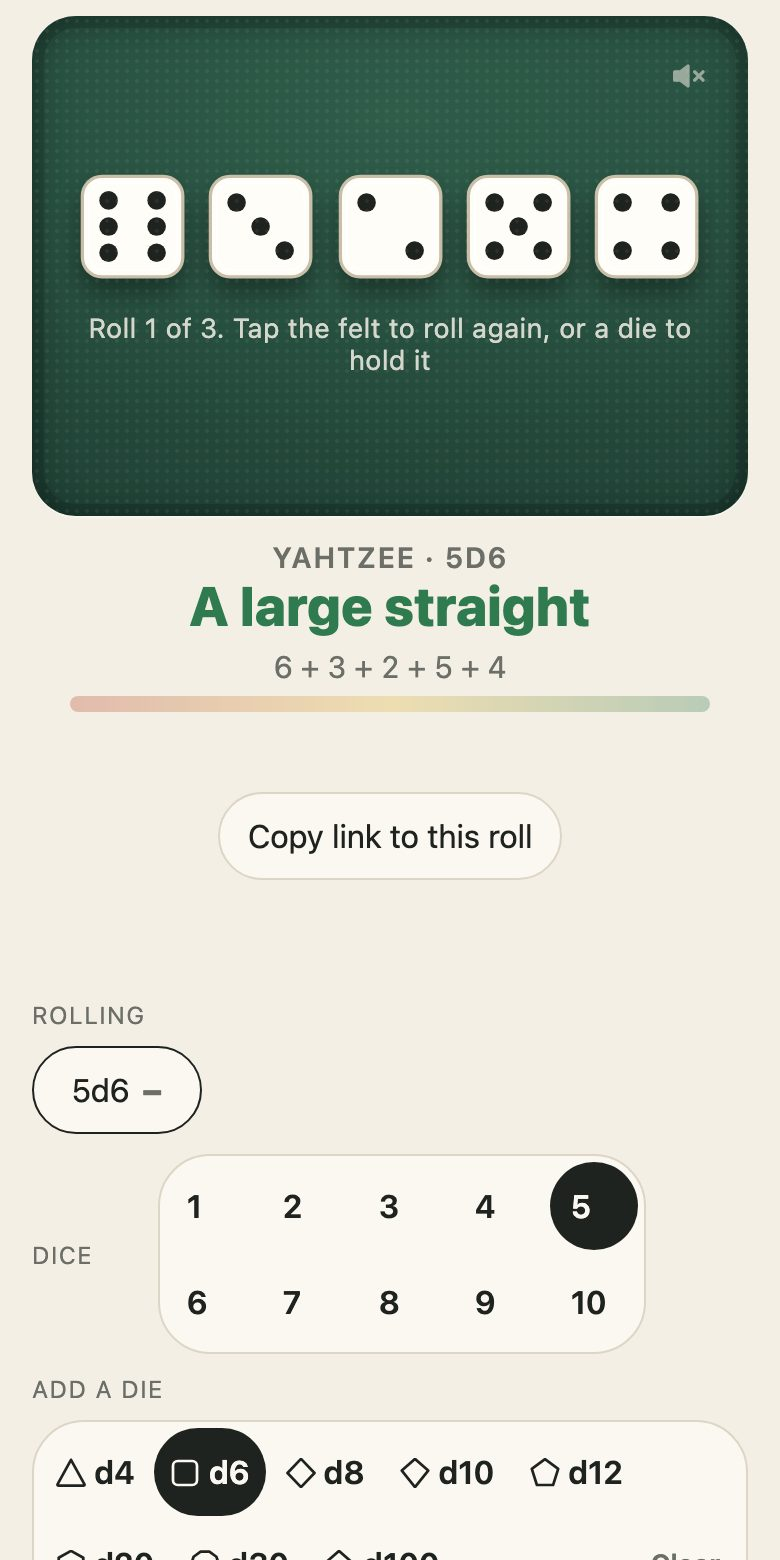
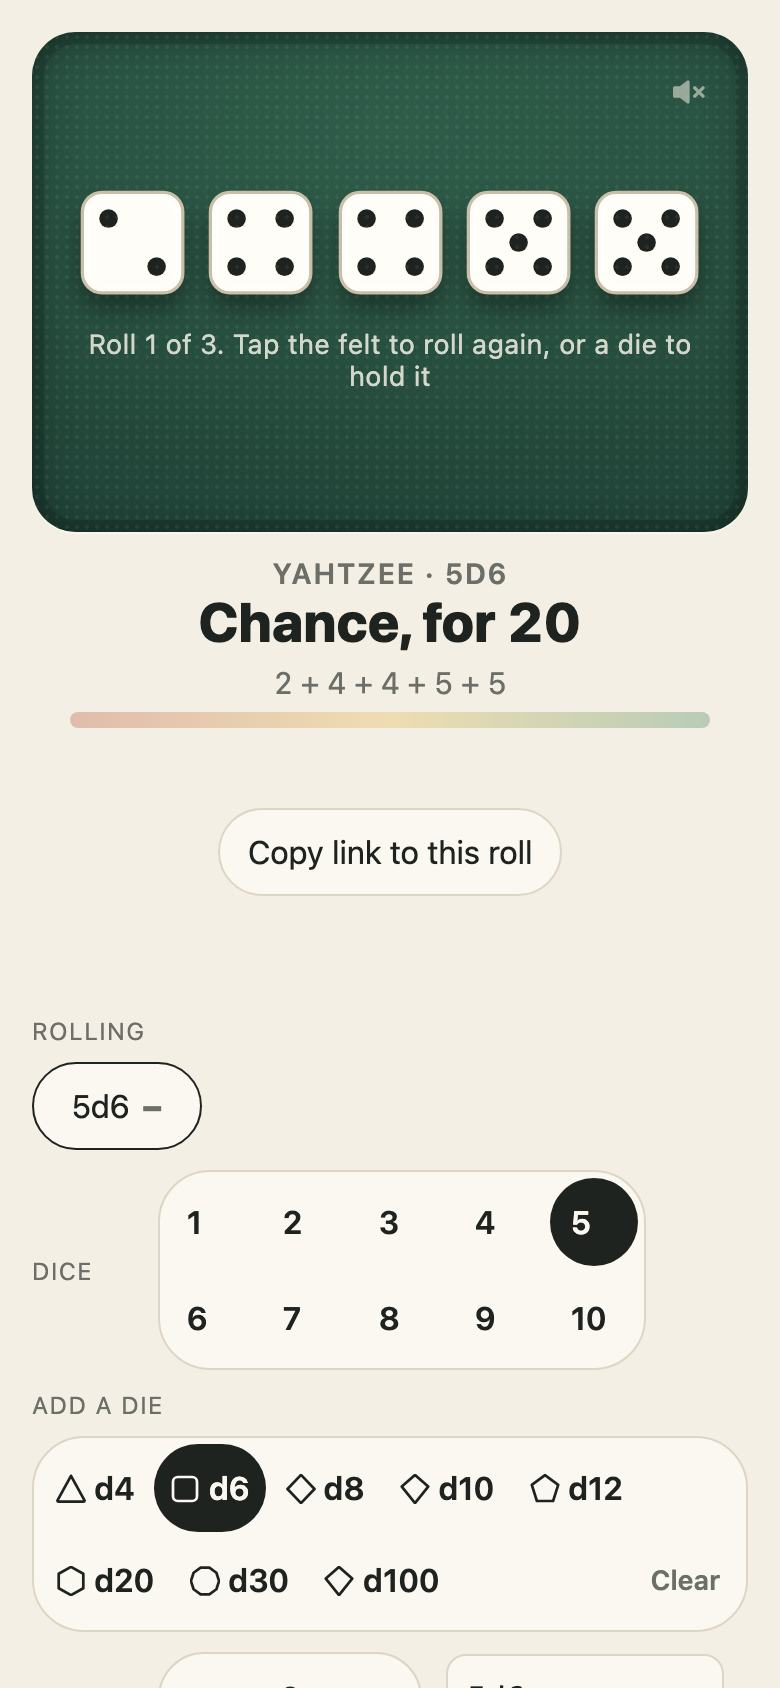
README pictures re-taken from the current demo, with a pictures script that takes them: pnpm pictures

diff --git a/eslint.config.js b/eslint.config.js
@@ -8,4 +8,5 @@ export default tseslint.config(
   { files: ["tray/**/*.mjs", "playwright.config.mjs"], languageOptions: { globals: { process: "readonly", Buffer: "readonly", Image: "readonly", OffscreenCanvas: "readonly", getComputedStyle: "readonly", customElements: "readonly", console: "readonly", URL: "readonly", document: "readonly", window: "readonly", localStorage: "readonly" } } },
   { files: ["website/**/*.mjs"], languageOptions: { globals: { URL: "readonly" } } },
   { files: ["scripts/**/*.mjs"], languageOptions: { globals: { console: "readonly", URL: "readonly", document: "readonly", location: "readonly", localStorage: "readonly", navigator: "readonly", URLSearchParams: "readonly" } } },
+  { files: ["scripts/readme-pictures.mjs"], languageOptions: { globals: { console: "readonly", process: "readonly", URL: "readonly", document: "readonly", window: "readonly", getComputedStyle: "readonly" } } },
 );

diff --git a/README.md b/README.md
@@ -14,8 +14,8 @@ Tap dice to build a roll, up to ten in any mix from a d4 to a d100, or type any 
 <p align="center"><a href="https://johnmorrisdotca.github.io/korokoro/"><strong>Roll some dice →</strong></a> · <a href="https://johnmorrisdotca.github.io/korokoro/docs/"><strong>Read the documentation →</strong></a></p>
 
 <p align="center">
-  <img src="docs/desktop.jpg" alt="Eight d6 on the felt, their total with a luck meter, and the stats panel with face counts and totals against the odds" width="720">
-  <img src="docs/phone.jpg" alt="Four d6 with the lowest dropped, on a phone in dark mode: the dropped die struck through" width="220">
+  <img src="docs/desktop.jpg" alt="Eight d6 on the felt after twelve rolls, under the demo's header with its language chooser and five cloth patches: their total with a luck meter, and the Stats tab with rolls, luck and streaks and the face counts and totals against the odds" width="720">
+  <img src="docs/phone.jpg" alt="Four d6 with the lowest dropped, on a phone in dark mode, in Japanese: the dropped die faded on the felt and struck through in the sum, with a luck meter" width="220">
 </p>
 
 A dice roller and a dice notation parser for tabletop games, RPGs and board
@@ -892,7 +892,7 @@ presetOdds(getPreset("craps")!);
 // a natural (7 or 11) 8 of 36, craps (2, 3 or 12) 4 of 36, a point 24 of 36
 ```
 
-<p align="center"><img src="docs/games.jpg" alt="Yahtzee chosen on a phone: five d6 on the felt, read as a large straight, on roll 1 of 3" width="260"></p>
+<p align="center"><img src="docs/games.jpg" alt="Yahtzee chosen on a phone: five d6 on the felt, on roll 1 of 3, read as Chance for 20" width="260"></p>
 
 | Shelf | Games |
 | --- | --- |
